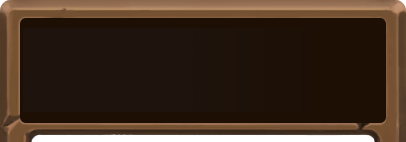
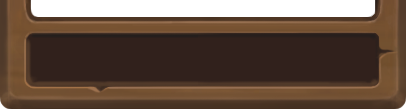
deck list styling almost done

diff --git a/CardCapstone/client/src/components/collection/Collection.js b/CardCapstone/client/src/components/collection/Collection.js
@@ -167,48 +167,60 @@ export const Collection = ({ user }) => {
         </div>
       ) : (
         <div className="deck-display">
-          <div className="deck-title-container">
-            <h2 className="deck-display-title">My Decks</h2>
-          </div>
-          {userDecks?.map((deck) => (
-            <div
-              className="deck-card"
-              key={deck.id + "key"}
-              onClick={() => {
-                handleDeckClick(deck);
-              }}
-            >
-              <DeckCard
-                deck={deck}
-                key={deck.id}
-                getUserDecks={() => getUserDecks()}
-              />
-              <button
-                className="delete"
-                href="#"
-                id={deck.id}
-                onClick={handleDeleteClick}
-              >
-                X
-              </button>
+          <div className="deck-display-innards">
+            <div className="deck-title-container">
+              <h2 className="deck-display-title">My Decks</h2>
             </div>
-          ))}
-          <button
-            className="new-deck-button"
-            onClick={() => handleNewDeckClick()}
-          >
-            New Deck
-          </button>
+            <div className="deck-list">
+              {userDecks?.map((deck) => (
+                <div
+                  className="deck-card"
+                  key={deck.id + "key"}
+                  onClick={() => {
+                    handleDeckClick(deck);
+                  }}
+                >
+                  <DeckCard
+                    deck={deck}
+                    key={deck.id}
+                    getUserDecks={() => getUserDecks()}
+                  />
+                  <button
+                    className="delete"
+                    href="#"
+                    id={deck.id}
+                    onClick={handleDeleteClick}
+                  >
+                    X
+                  </button>
+                </div>
+              ))}
+            </div>
+            <div className="deck-list-buttons">
+              <button
+                className="new-deck-button"
+                onClick={() => handleNewDeckClick()}
+              >
+                New Deck
+              </button>
+              {deckSelected ? (
+                <button
+                  className="finish-button"
+                  onClick={() => handleDoneClick()}
+                >
+                  Done
+                </button>
+              ) : (
+                <button
+                  className="finish-button"
+                  onClick={() => handleDoneClick()}
+                >
+                  Back
+                </button>
+              )}
+            </div>
+          </div>
         </div>
-      )}
-      {deckSelected ? (
-        <button className="finish-button" onClick={() => handleDoneClick()}>
-          Done
-        </button>
-      ) : (
-        <button className="finish-button" onClick={() => handleDoneClick()}>
-          Back
-        </button>
       )}
 
       <div className="search-wrapper">

diff --git a/CardCapstone/client/src/components/collection/Collection.css b/CardCapstone/client/src/components/collection/Collection.css
@@ -55,13 +55,13 @@
     left: 83%;
     width: 14%;
     height: 71.5%;
-    overflow-x: auto;
-    overflow-y: auto;
-    /* no scrollbar IE 10+ and firefox */
-    -ms-overflow-style: none;
-    /* Internet Explorer 10+ */
-    scrollbar-width: none;
-    /* Firefox */
+    background-image: url(../../../public/images/web-assets/deck-list-bg.png);
+    background-size: 100%;
+}
+
+.deck-display-innards {
+    height: 100%;
+    width: 100%;
     background-image: url(../../../public/images/web-assets/deck-list-border.png);
     background-size: 100%;
 }
@@ -128,11 +128,23 @@
 }
 
 
+.deck-list {
+    overflow-x: auto;
+    overflow-y: auto;
+    -ms-overflow-style: none;
+    scrollbar-width: none;
+}
 
-.finish-button {
+
+.deck-list-buttons {
+    display: flex;
+    background-image: url(../../../public/images/web-assets/deck-buttons-border.png);
+    background-size: contain;
+    background-repeat: no-repeat;
+    height: 15%;
+    width: 100%;
     position: absolute;
-    top: 79%;
-    left: 89%
+    bottom: -10%;
 }
 
 
